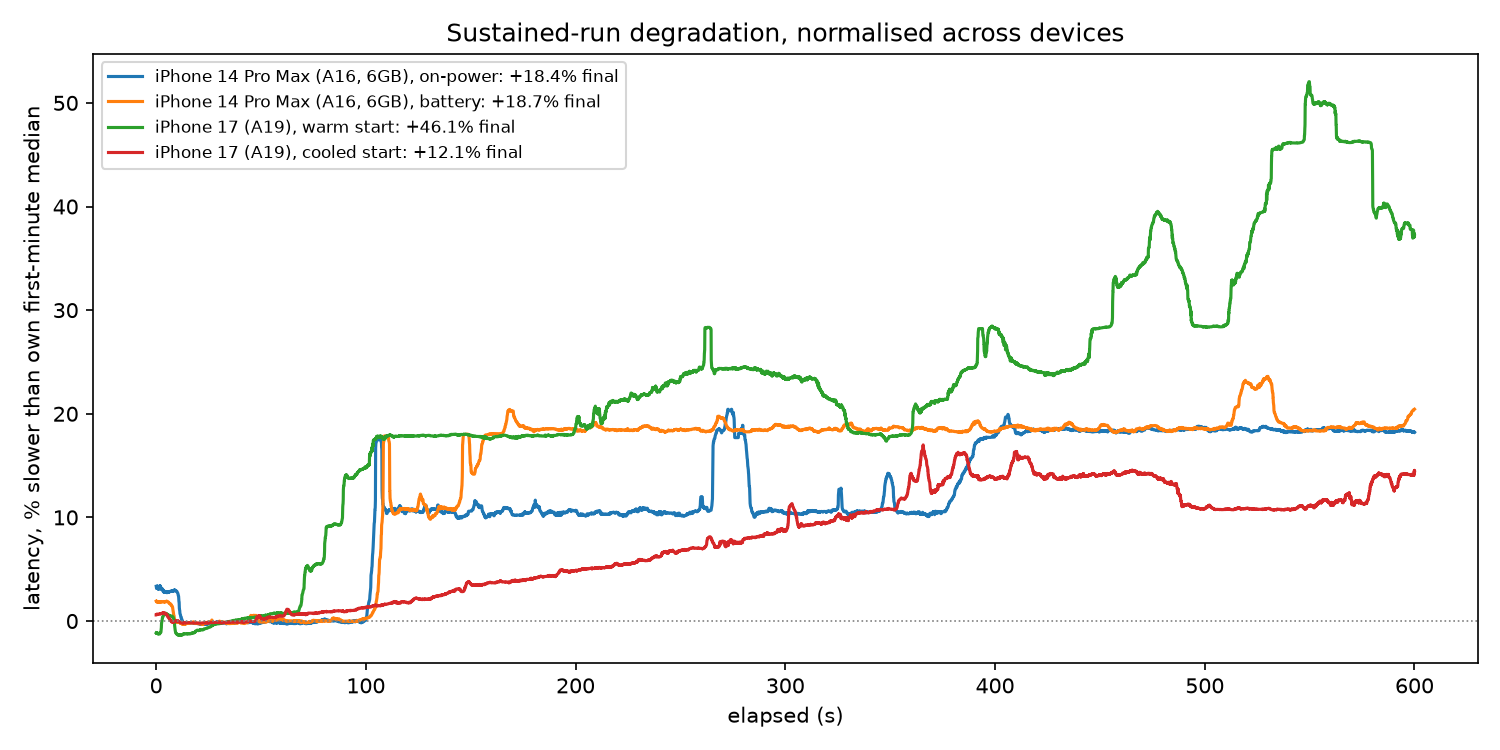
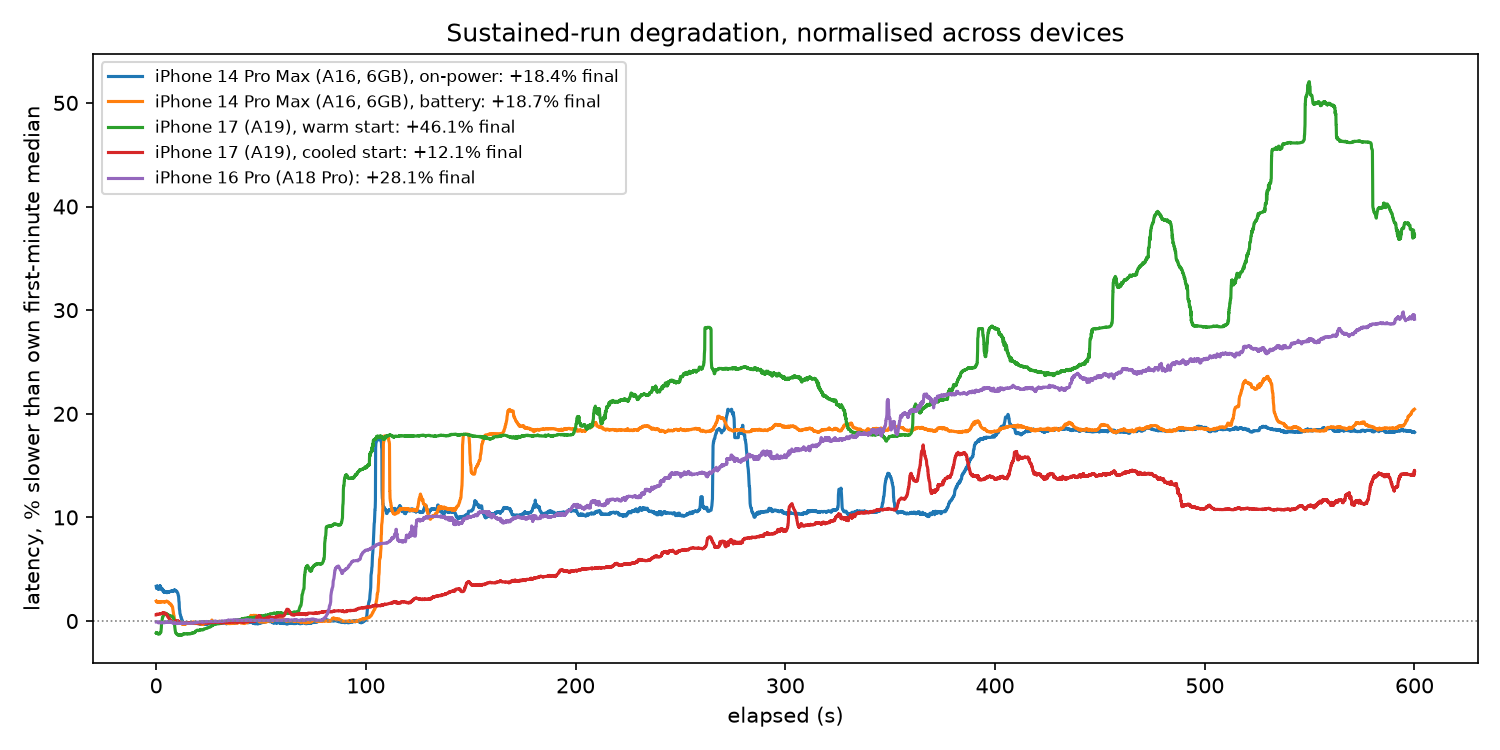
session 11: iPhone 16 Pro (A18 Pro), third degradation shape
Borrowed device, returned. First schema-2 run in the document, so the
first whose conditions were read from the device rather than asserted
by the build.

Degradation is step-then-creep: flat to 83s, +10% step, plateau to
200s, then a linear climb to +28.1% at 600s. Third distinct shape
across three devices, and a higher normalised drift than either A16
run despite being faster absolutely.

thermalState reports the step late. serious arrives at 90.6s, by which
point the step is more than half applied; fair arrives 37s before any
latency change.

Jetsam limit 3,539,992,576 bytes, 44.2% of the device's reported RAM
and round in no unit. Session 9's exactly-half and exact-3-GiB were
both device-specific; the footprint+available invariant underneath
them holds on a second chip.

int4 buys 2.7% here against 3.1% on the A16, so session 7's conclusion
survives a second chip generation. Session 6's synthetic-input check
also replicates, and now covers all three precisions, closing its own
caveat.

Corrects session 10: the A16 on-power run is two steps, not one, and
the A19 cooled run is not monotonic.

Claude-Session: https://claude.ai/code/session_01EBQZ2MFvAbWnHPzs847Hx9

diff --git a/analysis/plot_sustained.py b/analysis/plot_sustained.py
@@ -46,6 +46,11 @@ DEVICE_NAMES = {
     "sustained-1788866056": "iPhone 14 Pro Max (A16, 6GB)",
     "sustained-fp16-1790151796": "iPhone 17 (A19)",
     "sustained-fp16-1790102418": "iPhone 17 (A19)",
+    # Not a correction: this file is schema 2 and self-reports correctly.
+    # It reports the model identifier "iPhone17,1", which is the iPhone 16
+    # Pro and is trivially misread as the iPhone 17 above. Expanded here to
+    # the marketing name so the two devices are distinguishable in legends.
+    "sustained-fp16-1790161164": "iPhone 16 Pro (A18 Pro)",
 }
 
 # plot_comparison() is specifically the session 3 vs 4 (on-power vs

diff --git a/RESULTS.md b/RESULTS.md
@@ -541,7 +541,7 @@ input mode (synthetic vs. real) and load time are unknown.
 | Fair | at run start |
 | Serious | 255.8 s |
 
-![Four sustained runs normalised to each run's own first-minute median, plotted as percent slower over 600 seconds. Both iPhone 14 Pro Max (A16) runs step to a roughly 18% plateau within about 110 seconds and hold flat. The iPhone 17 (A19) cooled-start run creeps up smoothly and close to linearly to about 12% with no step anywhere. The iPhone 17 warm-start run creeps far more steeply and noisily, passing both A16 runs and reaching about 46% by the end.](results/charts/cross-device-normalised.png)
+![Five sustained runs normalised to each run's own first-minute median, plotted as percent slower over 600 seconds. The iPhone 14 Pro Max (A16) battery run steps near-vertically to about 18% just after 100 seconds and holds there for the rest of the run. The A16 on-power run steps to about 11% at the same time, holds that for four minutes, then steps again near 390 seconds to about 18.5%. The iPhone 16 Pro (A18 Pro) steps to about 10% at 85 seconds, plateaus until about 200 seconds, then climbs steadily to +28.1%, finishing higher than either A16 run. The iPhone 17 (A19) cooled-start run creeps up with no step to about 14% by 450 seconds, falls back to about 11% near 500 seconds, and ends at +12.1%. The A19 warm-start run climbs steeply and noisily above every other line, peaking above 50% around 550 seconds and ending at +46.1%.](results/charts/cross-device-normalised.png)
 
 Generated by `analysis/plot_sustained.py`, which normalises each run's
 rolling median to its own first-minute baseline so devices with
@@ -554,6 +554,17 @@ near-vertically at ~102s: session 8's "a cliff, not a slope." On the
 A19, there is no step at all, a smooth, monotonic creep across the full
 ten minutes. Session 8's finding is an A16 result and does not
 generalise to other silicon.
+
+Correction (session 11): the figure above was regenerated when the
+iPhone 16 Pro run was added, and at that resolution two things in this
+section are wrong. The A16 on-power run does not reach its ~18% plateau
+within 110 seconds: it steps to about 11% there, holds for four minutes,
+and steps again near 390 seconds, which matches session 3's two recorded
+thermal transitions at 102 s and 347 s. And the A19 cooled run is not
+monotonic: it peaks near +14% around 450 seconds and falls back to about
++11% by 500 seconds before ending at +12.1%. "No step at all" stands.
+"Smooth, monotonic creep" does not, and neither does treating the A16 as
+a single-step device.
 
 Finding 2: starting thermal state moved the result nearly 4x on the same
 device in the same day: +12.2% cooled (run A) versus +46.1% warm (run
@@ -585,3 +596,296 @@ Caveats:
 - One tester, one device, two runs. This establishes that the cliff
   shape in session 8 is not universal; it does not establish what the
   A19's degradation curve looks like in general.
+
+
+## Session 11: second borrowed device (iPhone 16 Pro, A18 Pro)
+
+iPhone 16 Pro, model identifier `iPhone17,1`, A18 Pro, iOS 26.6.
+`physical_memory_bytes` reads 8,014,741,504 (7.4643 GiB) from the device.
+Borrowed for about two hours and returned, so nothing here can be re-run.
+
+Note on the identifier: `iPhone17,1` is the iPhone 16 Pro. It is not the
+iPhone 17 of session 10, which is a different device on different
+silicon. The two are easy to confuse in filenames and labels.
+
+This is the first schema-2 run in this document, which means it is also
+the first run whose stated conditions were read from the device rather
+than asserted by the build: `battery_state` unplugged, `battery_level`
+1.0, `low_power_mode_enabled` false, `network_available_at_start` false,
+`thermal_state_at_start` nominal. Every earlier session's "airplane
+mode, off power" is a string literal compiled into the app. This one is
+a measurement.
+
+Deviates from standard conditions: different device, installed under
+bundle `com.ixdev.benchapp-foo` because the phone belongs to someone
+else, and the build's deployment target was lowered to iOS 26.6 to
+install on it (it had been inheriting 27.0, which excluded every device
+not on the newest OS).
+
+### Sustained run, fp16, 600s
+
+14,155 inferences, synthetic input. Raw data:
+`results/device-pull/sustained-fp16-1790161164.json`.
+
+| Metric | Value |
+|---|---|
+| Median (all runs) | 42.4 ms |
+| p95 (all runs) | 47.4 ms |
+| First-minute median | 36.8 ms |
+| Last-minute median | 47.1 ms |
+| Drift | +10.3 ms (+28%) |
+
+| State | Onset |
+|---|---|
+| Nominal | at run start |
+| Fair | 45.6 s |
+| Serious | 90.6 s |
+
+Shape, as 20-second rolling medians from the raw samples:
+
+| Window | Median | Behaviour |
+|---|---|---|
+| 0-80 s | 36.70, 36.76, 36.79, 36.80 ms | flat |
+| 80-120 s | 38.72, 39.52 ms | step |
+| 120-200 s | 40.43, 40.45, 40.41, 40.53 ms | plateau |
+| 200-600 s | 40.90 rising to 47.37 ms | linear creep |
+
+Finding 1: the degradation shape on this device is neither the A16's
+cliff nor the A19's creep. It is both, in sequence. Latency holds flat
+for 80 seconds, steps by +3.7 ms (+10%) over roughly 40 seconds, holds a
+genuine plateau for another 80 seconds, and then climbs steadily for the
+remaining 400 seconds. Session 8's cliff did not survive intact to the
+A18 Pro and did not disappear either; it shrank and was overtaken by a
+ramp. Across three devices there are now three shapes, which makes the
+shape a property of the silicon rather than of thermal throttling in
+general.
+
+Finding 2: `thermalState` reports the transition late, not early. The
+rolling median is flat at 36.79 ms until the steepest part of the rise
+at 82.9 s. The step is 25% complete at 83.4 s and half complete at
+85.5 s. `serious` is not reported until 90.6 s, by which point
+throttling is already more than half applied, and the step finishes at
+121.8 s on a plateau of 40.46 ms. `fair`, at 45.6 s, arrived 37 seconds
+before any latency change at all and carried no signal. So on this
+device the API is a lagging confirmation of throttling that has already
+happened, not a warning that it is coming. An app that waits for
+`serious` before shedding work has already paid most of the cost.
+
+![Scatter of 14,155 inference latencies over 600 seconds on the iPhone 16 Pro with a rolling median overlaid. The median holds flat at 36.8 ms until about 83 seconds, rises sharply to about 40 ms by 120 seconds, stays near 40.5 ms until roughly 200 seconds, then climbs steadily and close to linearly to 47.4 ms at the end. Dashed vertical lines mark the thermal transitions: fair at 46 seconds, in the middle of the flat stretch, and serious at 91 seconds, partway up the step rather than at its start.](results/charts/sustained-fp16-1790161164.png)
+
+Finding 3: normalised against its own baseline, this device degrades
+more over ten minutes than the A16 does, not less. It finishes +28.1%
+against +18.4% and +18.7% for the two A16 runs, despite being faster in
+absolute terms at every point. Degradation under sustained load does not
+improve with chip generation in this data; see the cross-device figure
+in session 10, regenerated to include this run.
+
+Load timing is reported under the precision runs below, not here. The
+sustained run's on-screen load figure (40.2 ms, 1.2 MB model cost) is a
+warm reload within the same app session and is not a load measurement.
+
+### Memory ceiling
+
+Raw data:
+`results/device-pull/ceiling-iphone16pro-a18pro-1790161164.json`, 105
+per-block samples, 32MB blocks, same method as session 9.
+
+| Metric | Value |
+|---|---|
+| Blocks before kill | 105 (indices 0-104) |
+| Allocated at last sample | 3,523,215,360 bytes (3360.0 MB) |
+| Footprint at last sample | 3,539,619,016 bytes (3375.6 MB) |
+| Available at last sample | 373,560 bytes (0.4 MB) |
+| Elapsed | 0.416 s |
+
+Finding 1, extending session 9: `phys_footprint_bytes + available_bytes`
+equals 3,539,992,576 in all 105 samples, with zero variation. Session
+9's second finding therefore holds on a second chip and a second OS:
+`os_proc_available_memory()` returns a fixed limit minus current
+footprint, arithmetically, not an estimate.
+
+Finding 2, correcting session 9: the limit is 3,539,992,576 bytes, which
+is 44.2% of this device's reported 8,014,741,504 bytes of physical
+memory. It is not half. Session 9's "exactly half of this device's 6 GiB
+of RAM" does not generalise, and the A16's limit of exactly 3 GiB is not
+even round here: 3,539,992,576 bytes is 3375.8125 MiB, a round number in
+no unit. Both the fraction and the roundness were properties of that
+device. What generalises is only that the limit is a fixed constant per
+device, discoverable at runtime in a single probe.
+
+An earlier probe in the same sitting (screenshot only; the app writes a
+fixed filename and the second run overwrote it on the device) died one
+block earlier, at a 3345.8 MB footprint with 30.2 MB available. That
+sums to the same constant. The kill point varies by up to one 32MB
+block; the limit does not.
+
+### Precision comparison, quick runs
+
+Three 100-iteration runs, synthetic input, at 13:21-13:22 local, about
+20 minutes after the sustained run ended. Quick runs do not write JSON,
+so these are evidenced by screenshots only:
+`results/screenshots/iphone16pro-quick-fp16.jpg`,
+`iphone16pro-quick-int8.jpg`, `iphone16pro-quick-int4.jpg`.
+
+| Precision | On disk | Median | p95 | min | max | Peak footprint |
+|---|---|---|---|---|---|---|
+| fp16 | 39.4 MB | 37.1 ms | 37.4 ms | 36.9 ms | 37.8 ms | 18.3 MB |
+| int8 | 19.8 MB | 36.3 ms | 37.0 ms | 36.0 ms | 38.8 ms | 19.3 MB |
+| int4 | 10.0 MB | 36.1 ms | 36.5 ms | 35.9 ms | 36.8 ms | 18.9 MB |
+
+The fp16 run was taken first as a re-baseline. It read 37.1 ms against
+the 36.8 ms measured cold at 12:49, so the device was marginally warmer
+than at the start of the day, not cooler. int8 and int4 ran after it and
+came in faster, so the ordering is not a thermal artifact. The fp16 and
+int4 distributions do not overlap at all across 100 samples each.
+
+Finding: int4 is 2.7% faster than fp16 on this device. Session 5
+measured 3.1% on the A16. Session 7's conclusion that int4 buys almost
+nothing on latency therefore holds on a second chip generation. This is
+the first general claim in this document to be tested on other silicon
+and survive; the cliff (session 8) and the half-of-RAM ceiling (session
+9) both failed that test.
+
+Observation, consistent with session 2: fp16 at 39.4 MB on disk and int4
+at 10.0 MB on disk both reported 4.1 MB of model cost. A 4x difference
+in file size, the same footprint, which is what memory-mapped weights
+predict.
+
+Load times from these three runs are not comparable to each other. fp16
+had already been loaded repeatedly in that app session and read 52.1 ms;
+int8 and int4 were first loads in that session and read 102.4 ms and
+116.3 ms. The only cold load measured on this device is 1341.5 ms, fp16,
+from the first quick run of the day at 12:49, with 52.7 MB of model cost
+and 3364.7 MB available before load.
+
+### Input validity check, replicating session 6
+
+Session 6 established that synthetic input is a legitimate shortcut for
+timing, but did so on the A16 only. Every latency number above used
+synthetic input, so that shortcut needed checking on this device before
+any of them could stand on their own.
+
+Quick test (100 runs) at each precision, real input via the bundled
+LibriSpeech mel `6930-75918-0000`, the same utterance session 6 used.
+Screenshots: `results/screenshots/iphone16pro-quick-fp16-real.png`,
+`iphone16pro-quick-int8-real.png`, `iphone16pro-quick-int4-real.png`.
+
+| Metric | Synthetic | Real (`6930-75918-0000`) |
+|---|---|---|
+| Median | 37.1 ms | 36.9 ms |
+| p95 | 37.4 ms | 37.4 ms |
+| Min | 36.9 ms | 36.7 ms |
+| Max | 37.8 ms | 37.7 ms |
+| Peak footprint | 18.3 MB | 19.7 MB |
+
+Finding: session 6 replicates. The medians differ by 0.2 ms, with real
+input marginally faster, against 0.1 ms and the same direction on the
+A16. Input distribution does not affect ANE throughput for this model on
+this silicon either, so every latency figure in this session rests on a
+check performed on its own device rather than on an A16 result assumed
+to carry over. Peak footprint moves the same way as session 6 as well:
+real input costs 1.4 MB more here and 2.7 MB more on the A16, which is
+the `.bin` read rather than the inference.
+
+Deviation from session 6's method: session 6 ran both arms back to back.
+These two are two hours apart, the synthetic run at 13:21 and the real
+run at 15:25, with the device idle between. Both are cooled-baseline
+reads and they agree to 0.2 ms, but they are not a back-to-back pair.
+
+int8 and int4 were run the same way, closing session 6's own caveat that
+the check had only ever been done at fp16:
+
+| Precision | Synthetic median | Real median | Difference |
+|---|---|---|---|
+| fp16 | 37.1 ms | 36.9 ms | -0.2 ms |
+| int8 | 36.3 ms | 36.0 ms | -0.3 ms |
+| int4 | 36.1 ms | 35.6 ms | -0.5 ms |
+
+| Precision | Real p95 | Real min | Real max | Real peak footprint |
+|---|---|---|---|---|
+| fp16 | 37.4 ms | 36.7 ms | 37.7 ms | 19.7 MB |
+| int8 | 36.5 ms | 35.8 ms | 36.7 ms | 19.5 MB |
+| int4 | 36.0 ms | 35.5 ms | 36.4 ms | 20.0 MB |
+
+Every precision is marginally faster on real input, and the gap widens
+as precision drops. Do not read that as a finding. The synthetic runs
+were taken at 13:21 on a device that had been working since 12:49; the
+real runs were taken between 15:25 and 15:32 after two hours idle. A
+slightly cooler device produces a small uniform speedup, which accounts
+for all three signs being negative, and the spread across precisions
+(0.3 ms between the fp16 and int4 deltas) is smaller than the thermal
+offset already measured on this device between a cold and a
+lightly-worked state (36.8 ms against 37.1 ms at fp16). Isolating a real
+input-by-precision interaction would need the two arms run back to back
+at each precision, which the device's return made impossible.
+
+What the table does support: the precision ordering is unchanged by
+input type. fp16 is slowest and int4 fastest under both, and int4's
+advantage over fp16 is 2.7% synthetic against 3.5% real, both of which
+round to the same conclusion that int4 buys almost nothing on latency.
+Peak footprint rises with real input at every precision, by 0.2 to 1.4
+MB, which is the `.bin` read rather than the inference.
+
+### Open, unattributed: the two devices produce different encoder outputs
+
+Feature dumps were taken at all three precisions before the phone was
+returned: one inference per bundled mel window, encoder output written
+as float32. Held locally, not committed; see the note below.
+
+All 21 files differ from the A16's September 11 dumps (session 7). The
+differences are not float16 rounding. Per-file mean absolute difference
+ranges from 0.001574 to 0.004195, against encoder activations whose
+absolute values reach 23.3 in the A16 reference. The largest single
+element, in `window-1-fp16.bin`, reads -14.226562 on the A16 and
+-12.445312 on the A18 Pro, a difference of 1.781250. In that same file
+the 99th percentile of absolute difference is 0.0117 and 42.5% of
+elements differ by more than 4 float16 ULP.
+
+For scale, the PyTorch-to-CoreML conversion check (session 0) reported
+mean abs 0.002321 and max abs 0.231567. The two devices differ from each
+other by about the same average amount as the Core ML model differs from
+its PyTorch source, with a worst case roughly 8x larger.
+
+This is a measurement, not a finding. The cause is not isolated. It
+could be the Neural Engine generation, the Core ML compiler version that
+ships with the OS (26.6 here against an unknown version on the A16), or
+a change to the model files between September 11 and now. The models
+were re-released on September 18 (`scripts/fetch-models.sh`, added
+September 19); `models/whisper-base-encoder-fp16.mlpackage` carries a
+September 18 mtime while the int8 and int4 packages carry September 8
+mtimes, which argues against a rebuild being the cause since all three
+precisions differ by similar magnitudes, but mtimes are not evidence.
+
+The control that isolates it is a fresh feature dump on the A16 with
+today's models. If it matches the September 11 files byte for byte, the
+build is ruled out. If it does not, the September 11 files were never a
+valid reference and the comparison has to be redone from a new baseline.
+Until that runs, nothing here says whether WER differs by device, and
+session 7's accuracy table should be read as an A16 result rather than a
+property of the quantization.
+
+The 62 MB of dumps are held out of git pending that control run. If they
+end up backing a real finding they belong in a release asset alongside
+the models, not in the repository.
+
+### Caveats
+
+- One sustained run. The A16 has two, the A19 has two. The step at 80 s
+  is 3.7 ms against a p95 of 37.2 ms during the flat stretch, so it is
+  far outside run-to-run noise, but it is a single run.
+- The OS is not controlled across the three devices and cannot be
+  recovered for two of them. This file reports iOS 26.6 from a runtime
+  read. Sessions 3, 4 and 10 all report `os_version` 27.0 as a hardcoded
+  literal, the same value in all four schema-1 files including the
+  tester's, whose `device` field is known to be wrong. Treat schema-1
+  `os_version` as unverified. The A16 / A18 Pro / A19 comparison is a
+  comparison of three phones, not three chips.
+- The precision runs are screenshot-evidenced only. Quick runs write no
+  file.
+- The device was borrowed and has been returned. Nothing in this session
+  can be repeated or corrected by re-running it.
+- `started_at` in schema 2 is written when the file is written, not when
+  the run starts. This run's `started_at` reads 2026-09-23T10:59:24Z
+  while the screenshots show the run completing at 12:59 local, which is
+  10:59Z, and the quick run that preceded it completing at 12:49 local.
+  Read `started_at` as a completion timestamp until the field is fixed.
